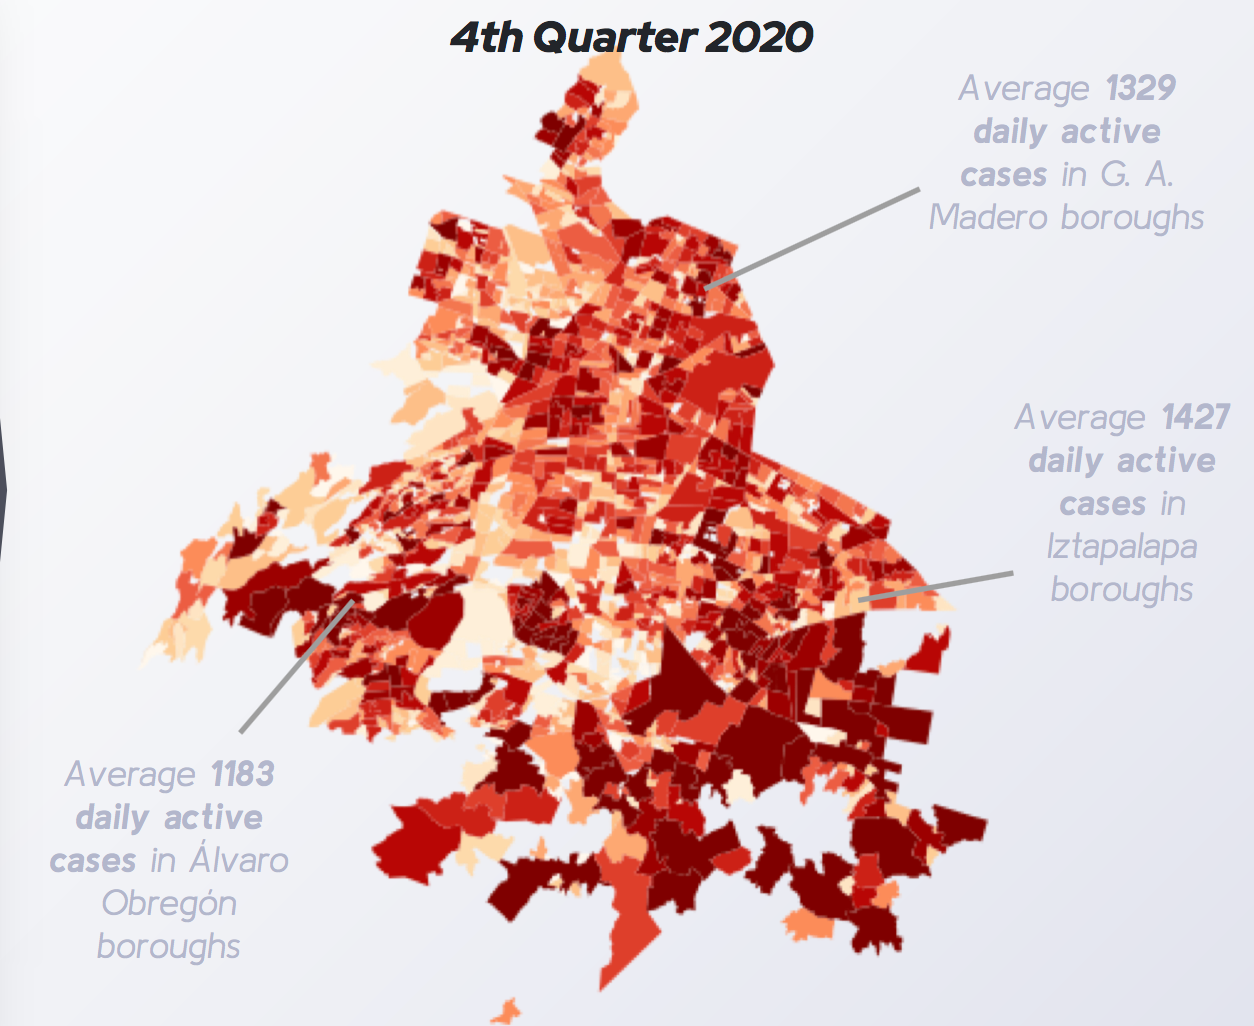
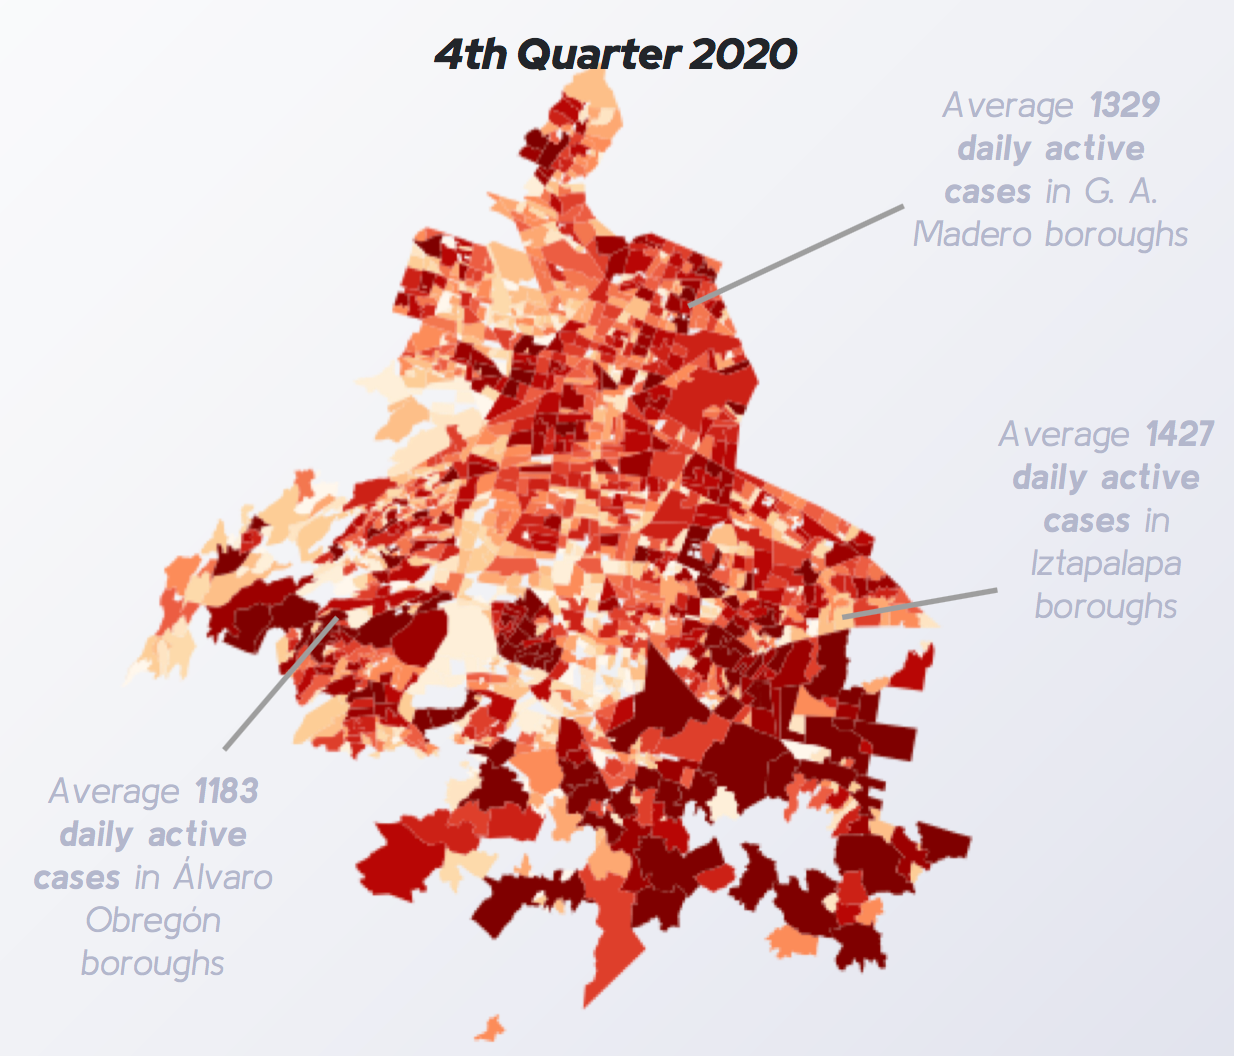
image update

diff --git a/index.html b/index.html
@@ -54,9 +54,9 @@
                    Álvaro Obregón have been the epicenter of the pandemic in Mexico City in late 2020.
                </p>
                <figure class="figure">
-                   <img src="https://raw.githubusercontent.com/martinsingla/Web-Design-Challenge/main/Resources/mapa_colonias_casos_Q3_Q4.png" 
+                   <img src= "https://raw.githubusercontent.com/martinsingla/Web-Design-Challenge/main/Resources/mapa_colonias_casos_Q4.png" 
                    class="figure-img img-fluid rounded" alt="Map Mexico City Boroughs Covid 2020">
-                   <figcaption class="figure-caption">Average Active Daily Cases of Covid-19 Across Mexico City by Borough (right: Q3 2020; left: Q4 2020)
+                   <figcaption class="figure-caption">Average Active Daily Cases of Covid-19 Across Mexico City by Borough (Q4 2020)
                        <br> Source: INEGI, 2020.</figcaption>
                </figure>
 

diff --git a/styles.css b/styles.css
@@ -19,6 +19,10 @@
     color: #e95d32;
 }
 
+.figure {
+    border: 1.5px solid #555;
+}
+
 @media (max-width: 650px) {
     .container-fluid {
      background-color: #e95d32;
